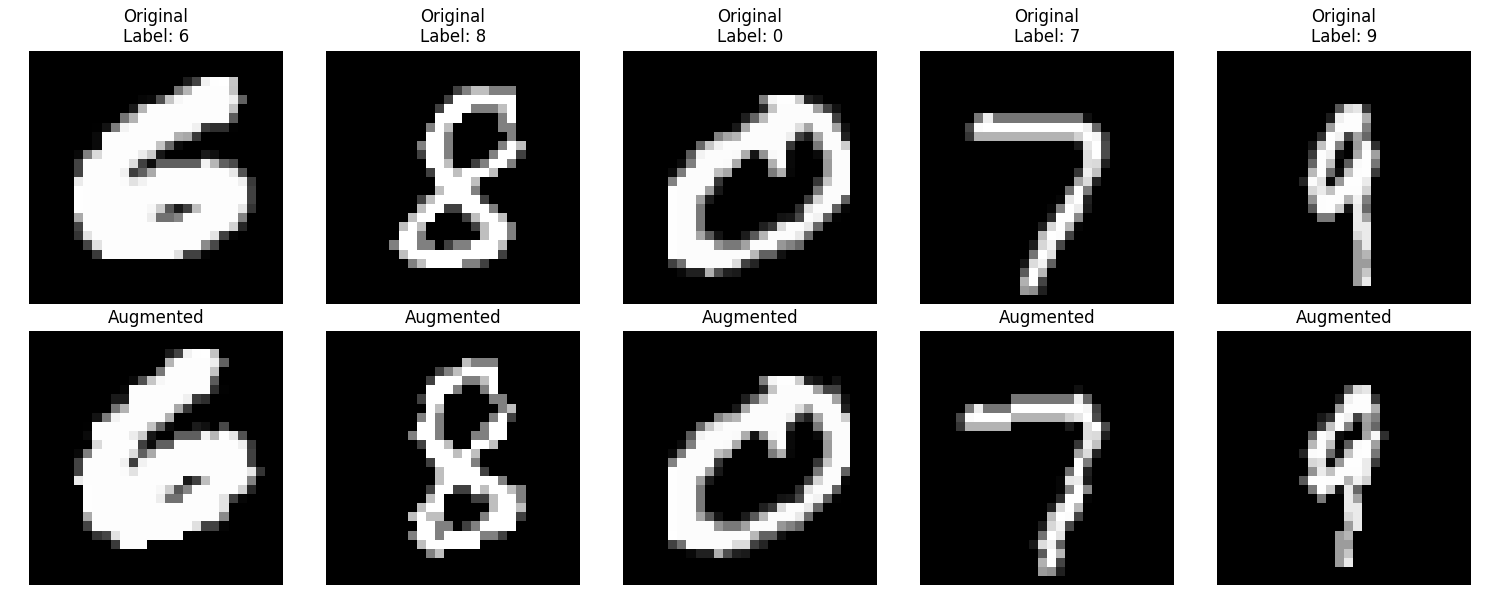
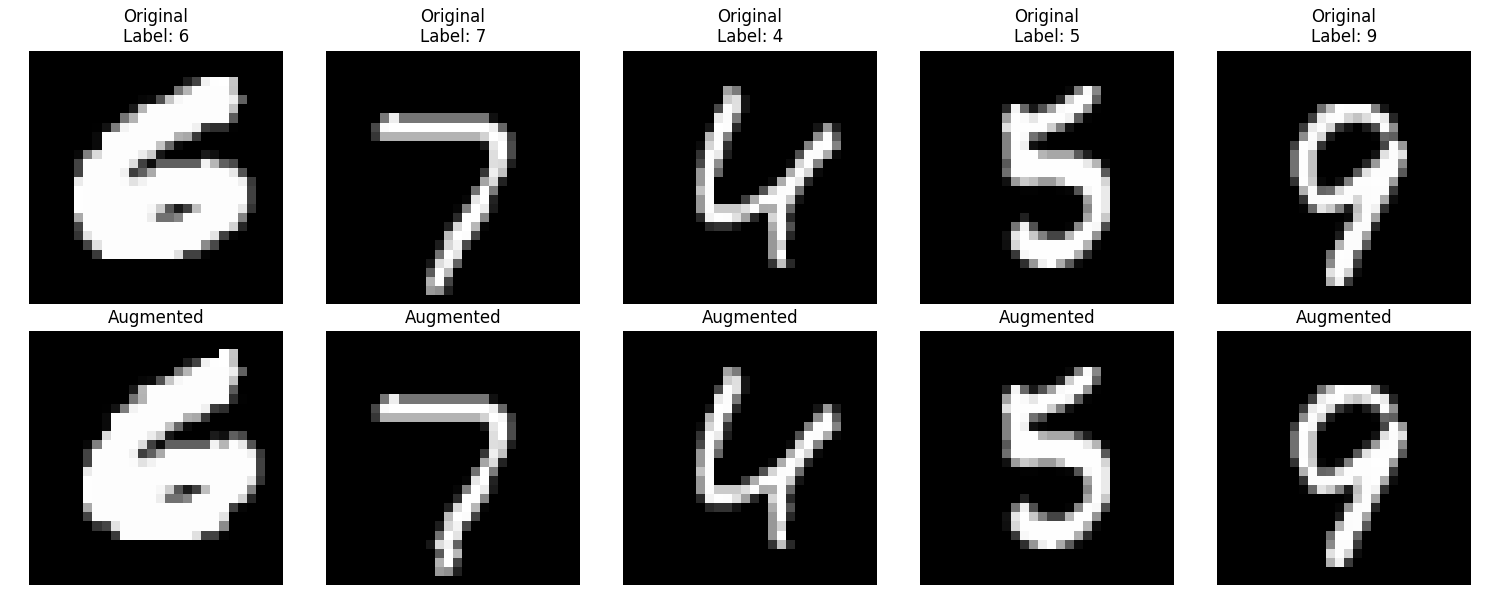
added testcases

diff --git a/src/test_model.py b/src/test_model.py
@@ -3,12 +3,7 @@ import pytest
 from model import MNISTNet
 from train import train
 
-def test_parameter_count():
-    model = MNISTNet()
-    print("\nModel Parameter Breakdown:")
-    param_count = model.print_model_summary()
-    assert param_count < 100000, f"Model has {param_count:,} parameters (should be <100000)"
-    print(f"\nParameter test passed: {param_count:,} parameters")
+
 
 def test_input_shape():
     model = MNISTNet()
@@ -19,6 +14,11 @@ def test_input_shape():
     except Exception as e:
         pytest.fail(f"Model failed to process 28x28 input: {str(e)}")
 
+def test_model_accuracy():
+    accuracy = train(save_model=False)
+    assert accuracy > 95.0, f"Model accuracy {accuracy:.2f}% is below 95%"
+    print(f"Accuracy test passed: {accuracy:.2f}%")
+
 def test_output_shape():
     model = MNISTNet()
     test_input = torch.randn(1, 1, 28, 28)
@@ -26,7 +26,33 @@ def test_output_shape():
     assert output.shape == (1, 10), f"Output shape is {output.shape}, should be (1, 10)"
     print("Output shape test passed")
 
-def test_model_accuracy():
-    accuracy = train(save_model=False)
-    assert accuracy > 80.0, f"Model accuracy {accuracy:.2f}% is below 80%"
-    print(f"Accuracy test passed: {accuracy:.2f}%")
+
+def test_parameter_count():
+    model = MNISTNet()
+    print("\nModel Parameter Breakdown:")
+    param_count = model.print_model_summary()
+    assert param_count < 25000, f"Model has {param_count:,} parameters (should be <25000)"
+    print(f"\nParameter test passed: {param_count:,} parameters")
+
+
+def test_feature_map_shapes():
+    model = MNISTNet()
+    x = torch.randn(1, 1, 28, 28)
+    
+    # Get intermediate feature maps
+    conv1_out = model.pool(model.relu(model.conv1(x)))
+    conv2_out = model.pool(model.relu(model.conv2(conv1_out)))
+    
+    assert conv1_out.shape == (1, 16, 14, 14), f"Conv1 output shape incorrect: {conv1_out.shape}"
+    assert conv2_out.shape == (1, 32, 7, 7), f"Conv2 output shape incorrect: {conv2_out.shape}"
+
+def test_model_deterministic():
+    model = MNISTNet()
+    x = torch.randn(1, 1, 28, 28)
+    
+    # Test if model gives same output for same input
+    output1 = model(x)
+    output2 = model(x)
+    
+    assert torch.allclose(output1, output2), "Model not deterministic"
+    print("Deterministic behavior test passed")

diff --git a/src/train.py b/src/train.py
@@ -9,7 +9,9 @@ import os
 def get_transforms(train=True):
     if train:
         return transforms.Compose([
-            transforms.RandomRotation(15),
+            transforms.RandomRotation(5),
+            transforms.RandomAffine(degrees=0, translate=(0.02, 0.02)),
+            transforms.RandomPerspective(distortion_scale=0.05, p=0.1),
             transforms.ToTensor(),
             transforms.Normalize((0.1307,), (0.3081,))
         ])
@@ -24,8 +26,8 @@ def train(save_model=True):
     device = torch.device('cuda' if torch.cuda.is_available() else 'cpu')
     
     # Hyperparameters
-    batch_size = 64
-    learning_rate = 0.003
+    batch_size = 32
+    learning_rate = 0.001
     
     # MNIST Dataset with augmentation
     train_dataset = datasets.MNIST(
@@ -44,7 +46,7 @@ def train(save_model=True):
     # Model
     model = MNISTNet().to(device)
     criterion = nn.CrossEntropyLoss()
-    optimizer = optim.Adam(model.parameters(), lr=learning_rate,betas=(0.9, 0.999))
+    optimizer = optim.Adam(model.parameters(), lr=learning_rate)
     
     # Training statistics
     total_step = len(train_loader)
